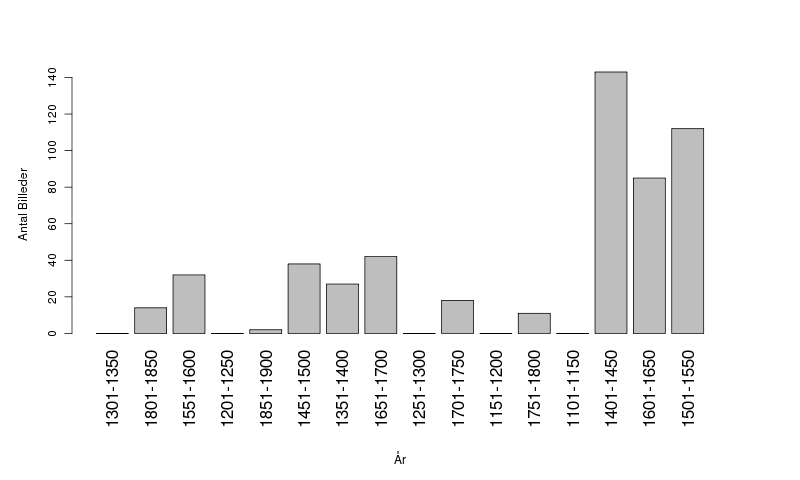
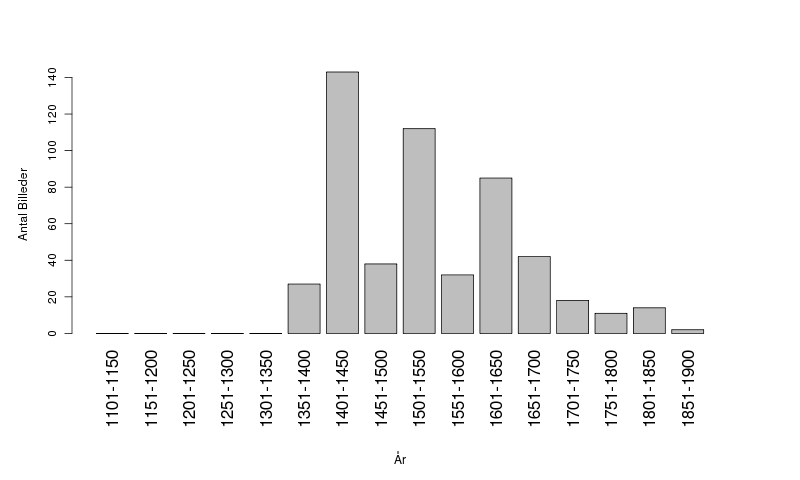
sorteret graf

diff --git a/doc/rapport/afsnit/resultater/udvidet.tex b/doc/rapport/afsnit/resultater/udvidet.tex
@@ -150,8 +150,26 @@ en andre. Så hypotese \ref{hypo_tid} kan forkastes.
        gemmesnitlige antal fundene regioner i snittet.}
      \label{udvidet_year}
 \end{figure}
-
-
+I grafene \ref{udvidet_nation}, kan 
+\begin{figure}[!h]
+    \centering
+    	\subfloat[Det gyldne snit 0.]{
+	       	\includegraphics[angle=-90,width=0.42\textwidth]{afsnit/resultater/billeder/nationcut0U.png}
+	       	\label{udvidet_nation_cut0}}\hspace{1em}
+		\subfloat[Det gyldne snit 1.]{
+	       	\includegraphics[angle=-90,width=0.42\textwidth]{afsnit/resultater/billeder/nationcut1U.png}
+	       	\label{udvidet_nation_cut1}}\hspace{1em}\\
+		\subfloat[Det gyldne snit 2.]{
+	       	\includegraphics[angle=-90,width=0.42\textwidth]{afsnit/resultater/billeder/nationcut2U.png}
+	       	\label{udvidet_nation_cut2}}\hspace{1em}
+		\subfloat[Det gyldne snit 3.]{
+	       	\includegraphics[angle=-90,width=0.42\textwidth]{afsnit/resultater/billeder/nationcut3U.png}
+	       	\label{udvidet_nation_cut3}}\hspace{1em}
+       \caption[]{Fire grafer over antal regioner fundet i vær sig
+       nationalitet. Vær graf repræsentere vær deres snit. Y aksen er det
+       gemmesnitlige antal fundene regioner i snittet.}
+     \label{udvidet_nation}
+\end{figure}
 
 
 
